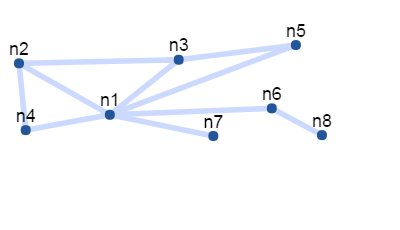
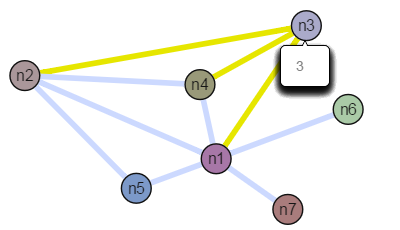
finished hhalgorithm

Changed region(s): [[0.0, 0.0304, 0.93, 0.9739], [0.75, 0.2739, 0.78, 0.3043]]

diff --git a/p/havel-hakimi-algorithm-calculator/graph_tools.js b/p/havel-hakimi-algorithm-calculator/graph_tools.js
@@ -1,11 +1,12 @@
-function create_n_nodes(n) {
+function create_n_nodes(sequence) {
   var el = [];
-  var nodes = n;
-
-  for (var i = 0; i < n; i++) {
-    var node =     { // node a
+  var nodes = sequence.length;
+  for (var i = 0; i < sequence.length; i++) {
+    var node = { // node a
         data: {
           id: "n"+(i+1).toString(),
+          degree: sequence[i],
+          noden: i,
         }
       };
     el.push(node);
@@ -33,6 +34,7 @@ function get_nodes_keys(el){
 }
 
 function distribute_edges(nodes,edges){
+  //todo: on sequences like 4,3,3,2,2,1,1 get a not connected graph
   if (nodes.length == 0){
     return edges;
   }
@@ -40,16 +42,17 @@ function distribute_edges(nodes,edges){
     nodes.sort(function(i, j){return j[1]-i[1]});
     var x = 1;
     while (nodes[0][1] > 0){
-      
-      nodes[0][1] -= 1;
-      nodes[x][1] -= 1;
-      edges.push([nodes[0][0],nodes[x][0]]);
+
+      if (nodes[x][1] > 0) { 
+        nodes[0][1] -= 1;
+        nodes[x][1] -= 1;
+        edges.push([nodes[0][0],nodes[x][0]]);
+      }
       x++;
     }
     nodes.shift();
     return distribute_edges(nodes,edges);
   }
-
 }
 
 function create_graph(sequence){
@@ -59,9 +62,15 @@ function create_graph(sequence){
     names.push(["n"+(i+1),sequence[i]]);
   };
   var nedges = sequence.reduce(function(a, b) {return a + b;});
-  
-  console.log(names);
-  console.log(nedges);
+}
+
+function getRandomColor() {
+    var letters = '79AC';
+    var color = '#';
+    for (var i = 0; i < 6; i++ ) {
+        color += letters[Math.floor(Math.random() * 4)];
+    }
+    return color;
 }
 
 function draw_graph(sequence) {
@@ -72,9 +81,12 @@ function draw_graph(sequence) {
   };
 
   var nodes_degree = nodenames.map(function(el,i){return [nodenames[i],sequence[i]]});
+  
+  nodes_degree.sort(function(i, j){return j[1]-i[1]});
   var edges = distribute_edges(nodes_degree,[]);
   
-  var el = create_n_nodes(sequence.length);
+
+  var el = create_n_nodes(sequence);
 
   var nodeskeys = get_nodes_keys(el);
   for (var i = 0; i < edges.length; i++) {
@@ -82,27 +94,38 @@ function draw_graph(sequence) {
     var cn2 = edges[i][1];
     el.push(create_edge(cn1,cn2));
   };
-
+  
   var cy = cytoscape({
-      container: document.getElementById('cy'), // container to render in
+      container: $('#cy'), 
       elements: el,
 
 
-    style: [ // the stylesheet for the graph
+    style: [
       {
         selector: 'node',
         style: {
-          "width":"9px",
-          "height":"9px",
-          'background-color': '#259',
-          'label': 'data(id)'
+          'font-size': '.8em',
+          'label': 'data(id)',
+          'text-valign': "center",
+          'text-margin-x' : '3px', 
+          'text-margin-y' : '3px',
+          "width":"1.5em",
+          "height":"1.5em",
+          'color': '#151515',
+          'border-width' : "1px",
+          'border-style' : "solid",  
+          'border-color' : "#111111",
+          //'width':'label',
+          //"height":"label",
+          "background-color": getRandomColor,
+          "events": "yes", 
         }
       },
 
       {
         selector: 'edge',
         style: {
-          'width': 5,
+          'width': 4,
           //'line-color': '#ccc',
           'selection-box-color': '#ccc',
           'line-color': '#ccd9ff'
@@ -110,9 +133,64 @@ function draw_graph(sequence) {
       }
     ],
 
-    layout: {
-        name:'random'
+    layout: 
+    {
+      name: 'cose',
+      ready: function(){},
+      stop: function(){},
+      animate: true,
+      animationThreshold: 250,
+      refresh: 20,
+      fit: true,
+      padding: 30,
+      boundingBox: undefined,
+      componentSpacing: 100,
+      nodeRepulsion: function( node ){ return 400000; },
+      nodeOverlap: 10,
+      idealEdgeLength: function( edge ){ return 10; },
+      edgeElasticity: function( edge ){ return 100; },
+      nestingFactor: 5,
+      gravity: 80,
+      numIter: 1000,
+      initialTemp: 200,
+      coolingFactor: 0.95,
+      minTemp: 1.0,
+      useMultitasking: true
     }
   });
-}
 
+  cy.on('mouseover', 'node', function(event) {
+
+      var node = event.cyTarget;
+      var noden = node.data("noden");
+      node.connectedEdges().css("line-color","#e6e600");
+
+      $("#table > tr:first > td:nth-child("+(noden+2)+")").addClass("tdhighlighted");
+
+      node.qtip({
+           content: function () {return node.data("degree")},
+           show: {
+              event: event.type,
+              ready: true
+           },
+           hide: {
+              event: 'mouseout unfocus'
+           },
+          style: {
+              classes: 'qtip-bootstrap',
+              tip: {
+                'font-size': "1em",
+                width: 4,
+                height: 4
+              }
+          }
+      }, event);
+  });
+
+  cy.on('mouseout', 'node', function(event) {
+    var node = event.cyTarget;
+    var noden = node.data("noden");
+    $("#table > tr:first > td:nth-child("+(noden+2)+")").removeClass("tdhighlighted");
+    node.connectedEdges().css('line-color','#ccd9ff');
+  });
+}

diff --git a/p/havel-hakimi-algorithm-calculator/index.html b/p/havel-hakimi-algorithm-calculator/index.html
@@ -9,18 +9,22 @@
     <link rel="stylesheet" href="https://maxcdn.bootstrapcdn.com/bootstrap/3.3.6/css/bootstrap.min.css" integrity="sha384-1q8mTJOASx8j1Au+a5WDVnPi2lkFfwwEAa8hDDdjZlpLegxhjVME1fgjWPGmkzs7" crossorigin="anonymous">
     <link rel="stylesheet" type="text/css" href="style.css">
 
+    <link href="http://cdnjs.cloudflare.com/ajax/libs/qtip2/2.2.0/jquery.qtip.min.css" rel="stylesheet" type="text/css" />
+
     <script type="text/javascript" src="https://cdnjs.cloudflare.com/ajax/libs/cytoscape/2.5.0/cytoscape.min.js"></script>
     <script type="text/javascript" src="graph_tools.js"></script>
     <script type="text/javascript" src="script.js"></script>
     <script src="http://code.jquery.com/jquery.js"></script>
+    <script src="http://cdnjs.cloudflare.com/ajax/libs/qtip2/2.2.0/jquery.qtip.min.js" type="text/javascript"></script>
+    <script src="https://cdn.rawgit.com/cytoscape/cytoscape.js-qtip/2.2.5/cytoscape-qtip.js" type="text/javascript"></script>
 </head>
 
 <body>
   <div id="right" class="col-md-6">
-    <h1>Havel-Hakimi Algorithm Calculator</h1>
+    <h1>Havel-Hakimi Algorithm</h1>
 
     <div id="form">
-      <input type="text" class="form-control" name="sucession" id="sucession" value="3,3,2,2,2"><br>
+      <input type="text" class="form-control" name="sucession" id="sucession" value="6,4,3,3,2,2,2"><br>
     </div>
 
     <div id="alg-execution">
@@ -46,7 +50,7 @@
         <h4 class="modal-title">Help</h4>
       </div>
       <div class="modal-body">
-        <p>Input a positive integer list separated by commas on textbox, press enter and see whether if it is <a href="https://en.wikipedia.org/wiki/Graph_realization_problem">graphic</a> or not. e.g.: </p>
+        <p>Input a positive integer list separated by commas, press enter and see whether if it is <a href="https://en.wikipedia.org/wiki/Graph_realization_problem">graphic</a> or not. e.g.: </p>
         <div  class="col-centered"><span>9,8,7,5,5,5,3,2,1</span></div>
         <br/>
 
@@ -96,7 +100,7 @@
 
         <br/><br/>
         <p>
-          <a href="http://github.com/gj84">gj84</a> code with Cytoscapejs - Bootstrap - Jquery
+          <a href="http://github.com/gj84">gj84</a> with cytoscapejs
         </p>
       
       </div>

diff --git a/p/havel-hakimi-algorithm-calculator/script.js b/p/havel-hakimi-algorithm-calculator/script.js
@@ -1,5 +1,12 @@
 window.onload = function() {
 
+    //run the example at start
+    $("#sucession").parent().addClass("has-success");
+    var sucession = input_parser($("#sucession").val());
+    algorithm(sucession);
+    setTimeout(draw_graph,2000,sucession);
+
+
     var textbox = document.getElementById('sucession');
     textbox.onkeypress = function (e) {
         //remove the class for valid and wrong succession
@@ -16,18 +23,15 @@ window.onload = function() {
                 var sucession = input_parser(input);
                 algorithm(sucession);
                 if (sequence_graphical(sucession)){
-                    setTimeout(draw_graph,3000,sucession);
+                    setTimeout(draw_graph,2000,sucession);
                 };
             }
 
             else {
                 $("#sucession").parent().addClass("has-error");
             };
-
-
         };
     };
-
 
     function valid_input(input) {
         var re = new RegExp("^( *([0-9])+ *,?)+$");
@@ -161,8 +165,8 @@ window.onload = function() {
             row.appendChild(td);
         };
         table.appendChild(row);
-
     }
+
 
     function highlight_last_row() {
         var table = document.getElementById("table");

diff --git a/p/havel-hakimi-algorithm-calculator/style.css b/p/havel-hakimi-algorithm-calculator/style.css
@@ -86,6 +86,12 @@ td {
     text-align: right;
 }
 
+.tdhighlighted {
+  background-color: #e6e600;
+  border: 1px solid gray;
+  text-align: center;
+  font-weight: bolder;
+}
 
 .fade {
   color: black;
